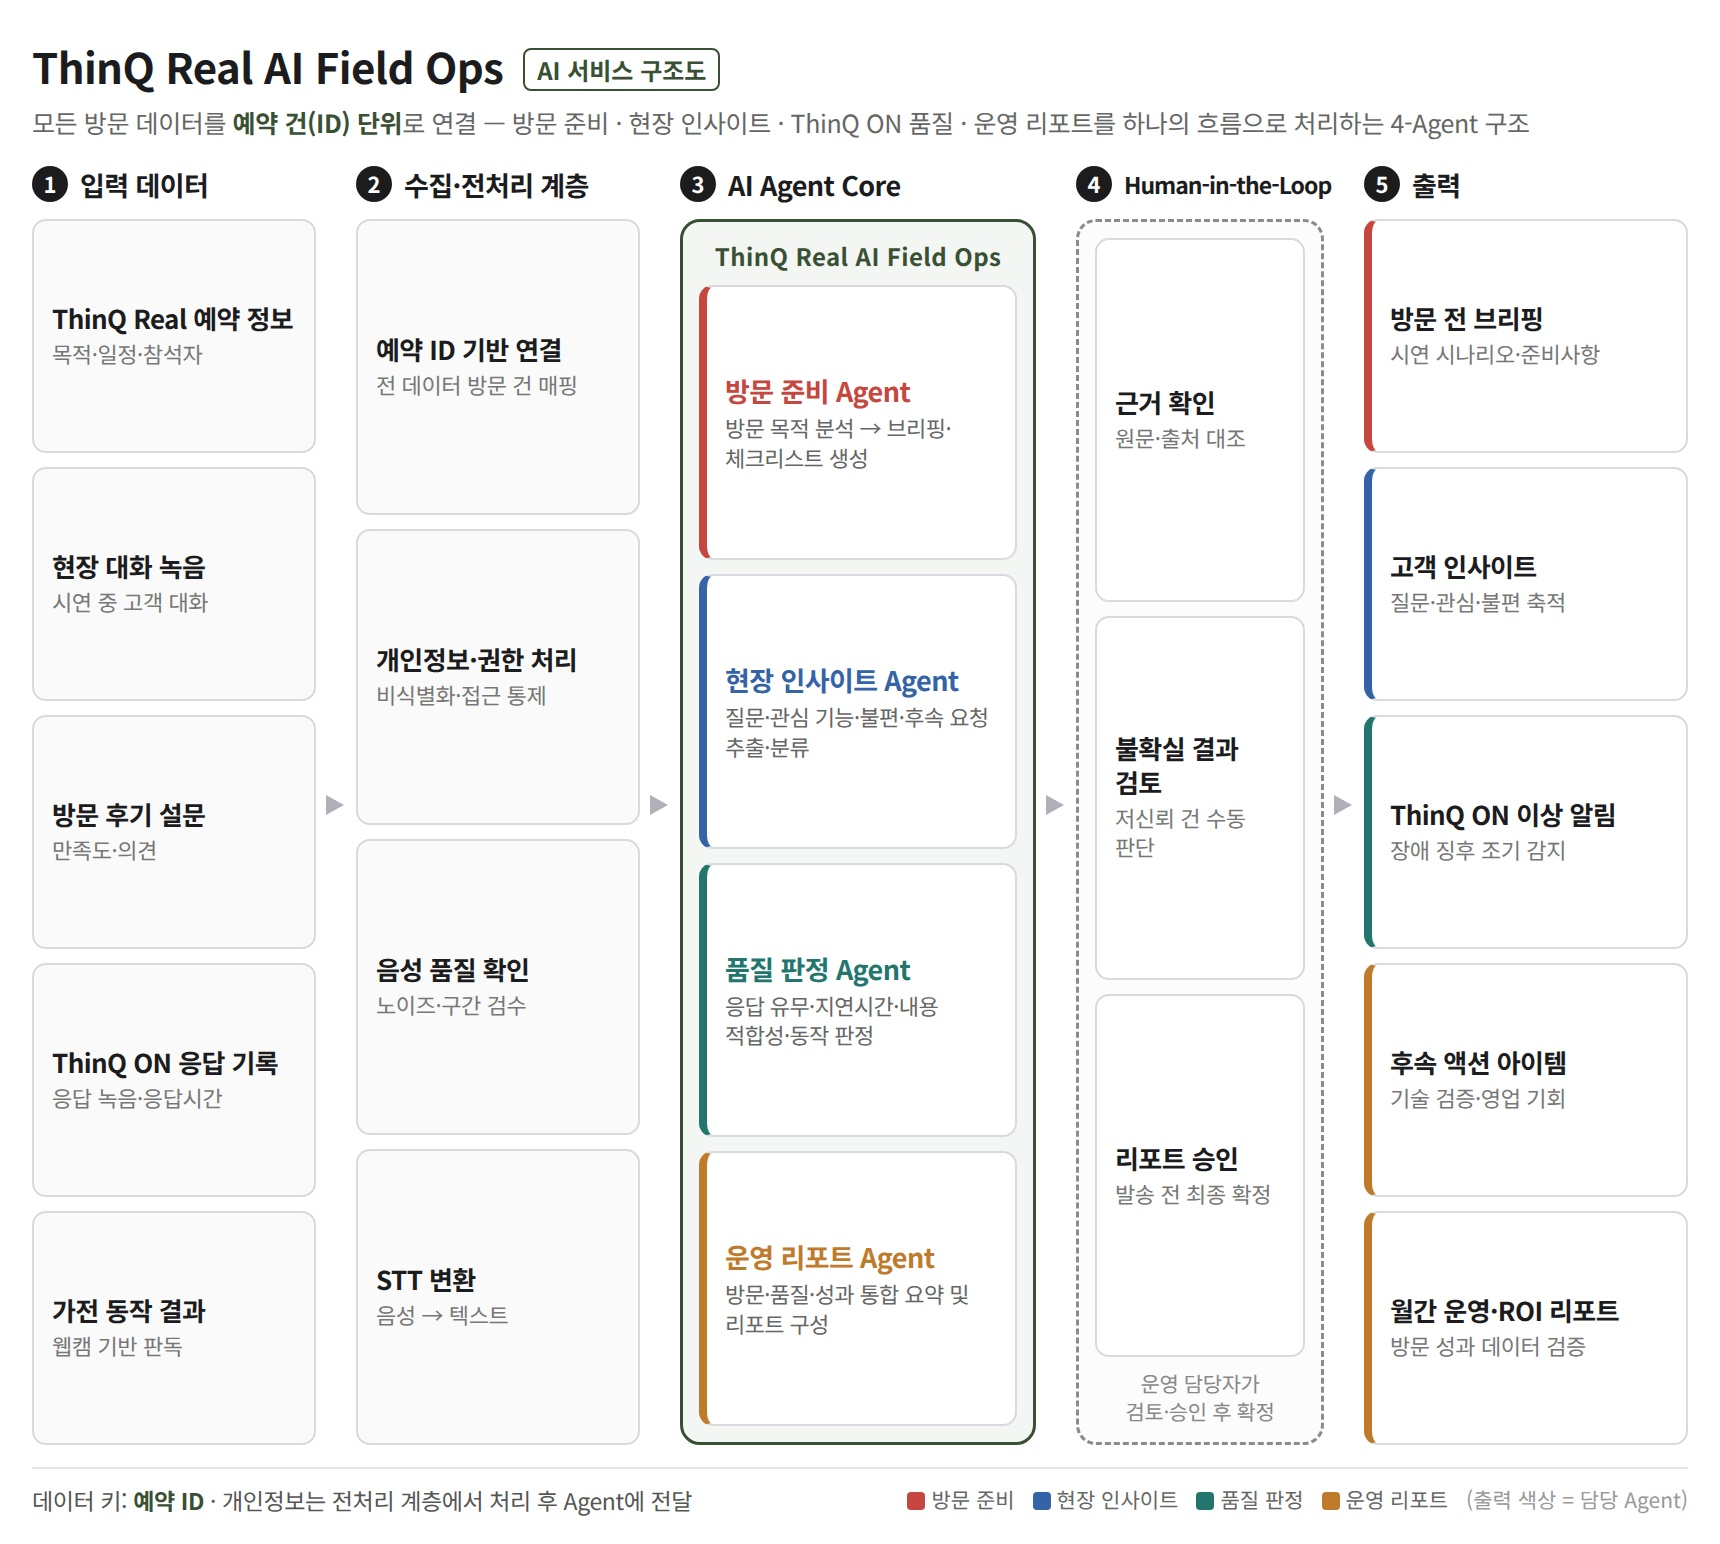
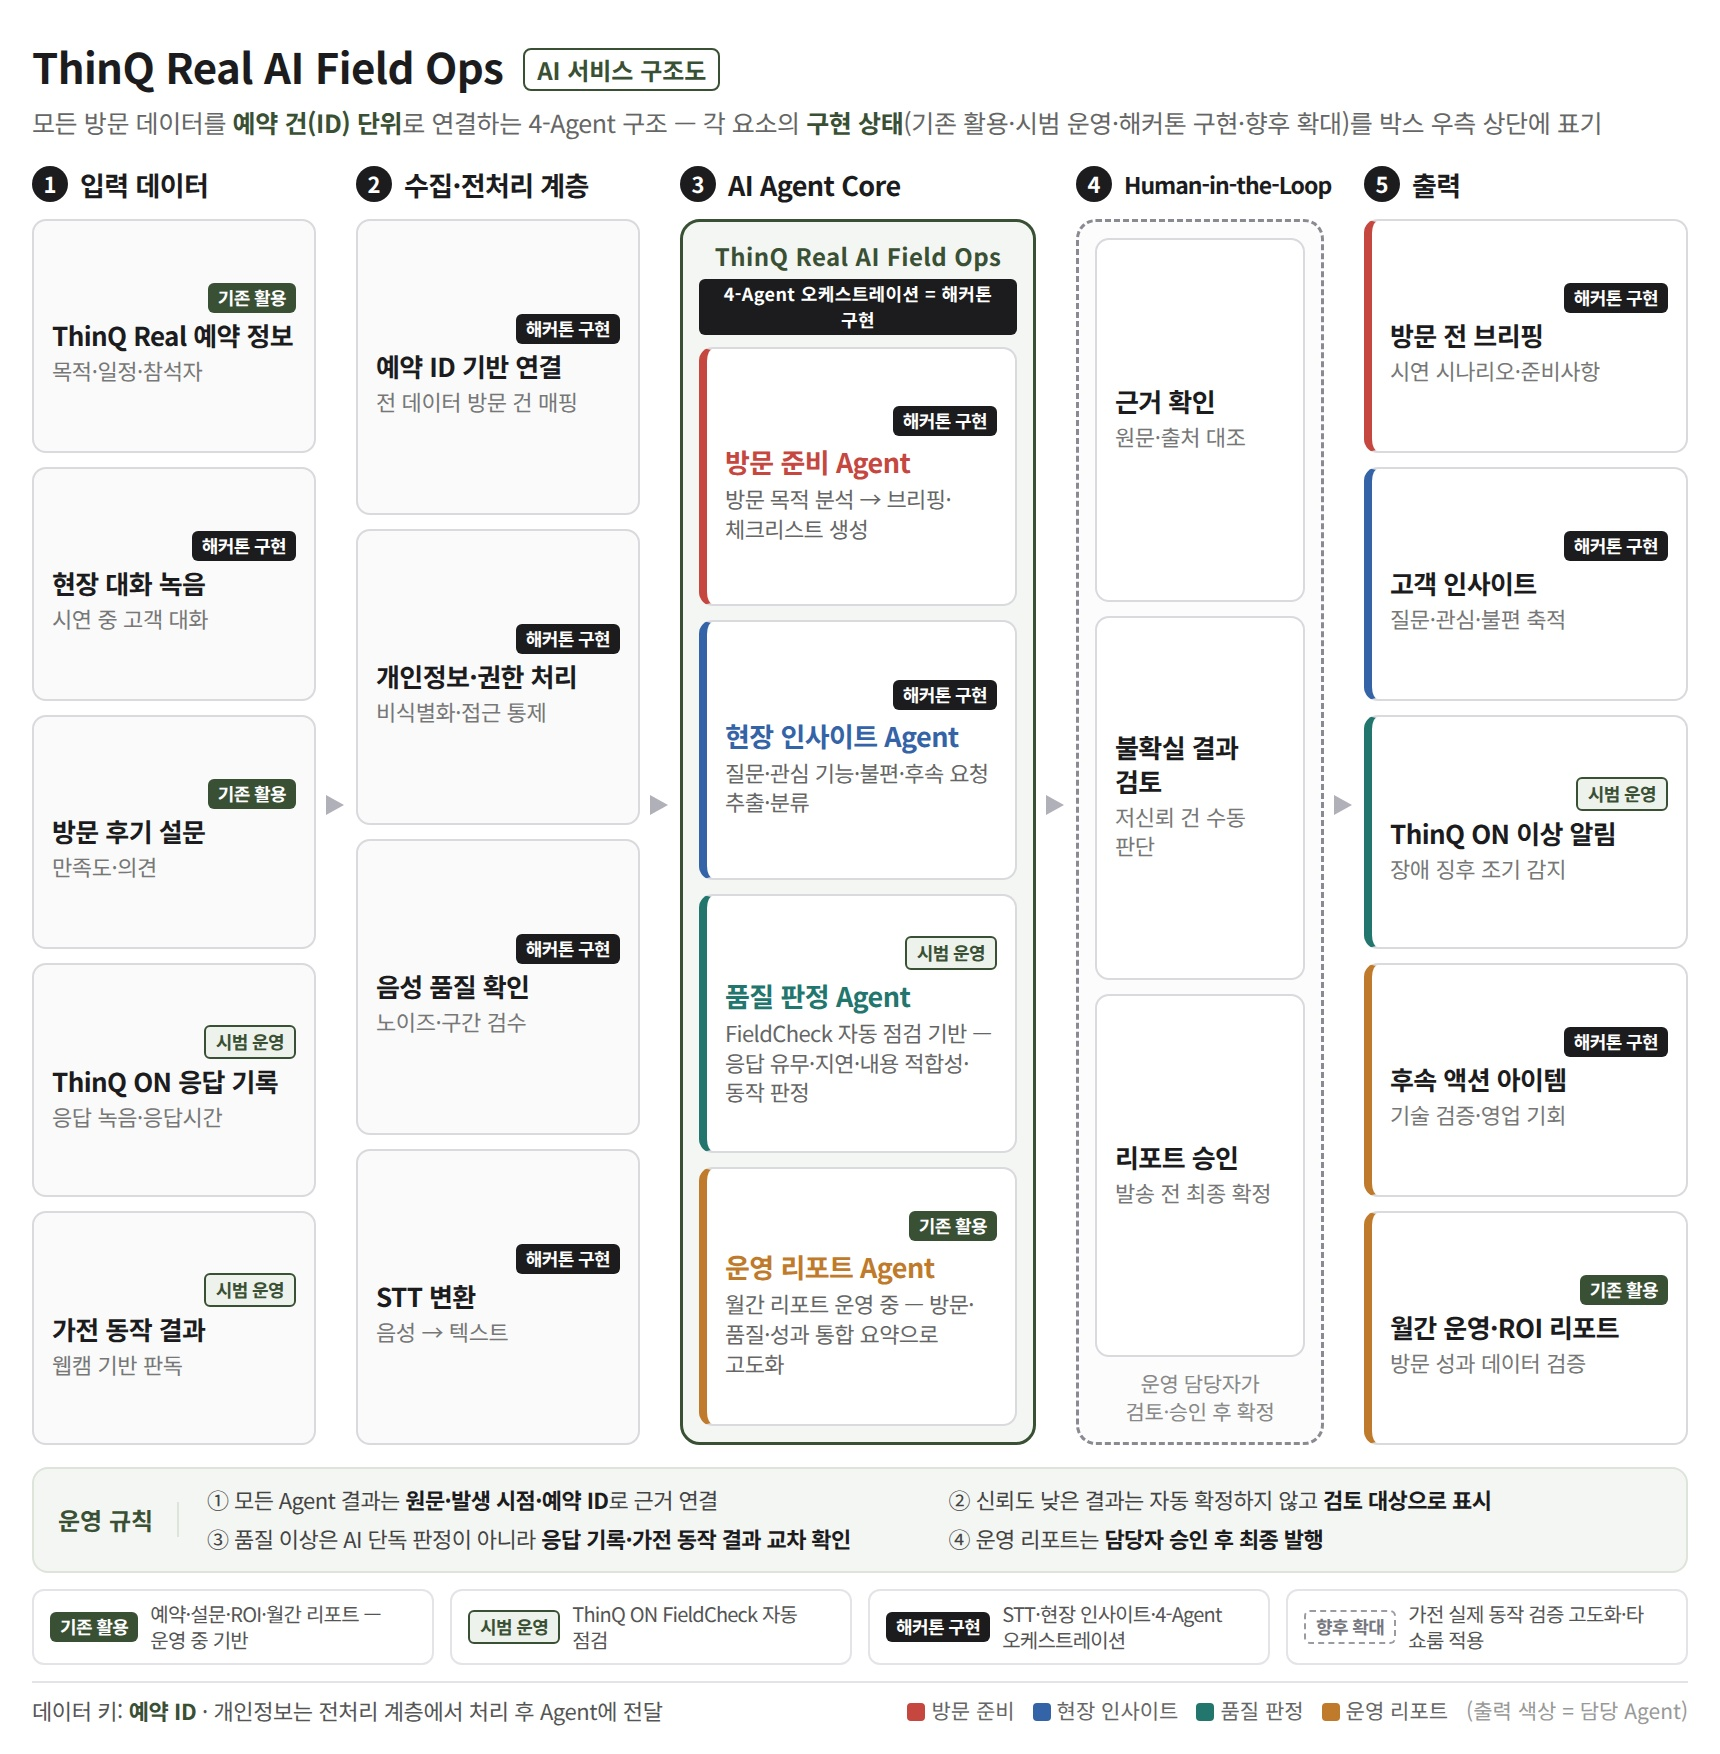
docs(hackathon): 구조도 최종 확정본 — 심사 피드백 반영 (구현 상태 배지·범례·운영 규칙)
- 박스별 구현 상태 4종 배지(기존 활용/시범 운영/해커톤 구현/향후 확대) + 하단 상태 범례
- 운영 규칙 밴드 4항(근거 연결·저신뢰 검토·교차 확인·승인 후 발행) 추가
- HANDOFF.md에 피드백 반영 내역·최종 이미지 크기 갱신

Claude-Session: https://claude.ai/code/session_01S9MiNsDJ5EUaq977ixRawg

diff --git a/thinqreal/hackathon/diagram/structure_diagram.html b/thinqreal/hackathon/diagram/structure_diagram.html
@@ -30,16 +30,27 @@
 
   .box {
     background:#fafafa; border:1px solid #d9d9de; border-radius:7px;
-    padding:7px 9px; flex:1; display:flex; flex-direction:column; justify-content:center;
+    padding:6px 9px 7px; flex:1; display:flex; flex-direction:column; justify-content:center;
   }
   .box .t { font-size:13px; font-weight:700; letter-spacing:-0.3px; line-height:1.3; }
   .box .d { font-size:11px; color:#777; letter-spacing:-0.2px; line-height:1.35; margin-top:2px; }
+
+  /* ---------- status badges ---------- */
+  .bdg {
+    align-self:flex-end; font-size:9px; font-weight:700; letter-spacing:-0.3px;
+    border-radius:3px; padding:1px 5px; margin-bottom:3px; white-space:nowrap;
+  }
+  .b-run { background:#3a5035; color:#fff; }                       /* 기존 활용 */
+  .b-pil { background:#eef2ec; color:#3a5035; border:1px solid #3a5035; } /* 시범 운영 */
+  .b-hak { background:#1c1c1e; color:#fff; }                       /* 해커톤 구현 */
+  .b-fut { background:#fff; color:#77777f; border:1px dashed #9a9aa2; } /* 향후 확대 */
 
   /* column widths */
   .c-in   { width:142px; flex:none; }
   .c-pre  { width:142px; flex:none; }
   .c-core { flex:1; }
   .c-hitl { width:124px; flex:none; }
+  .c-hitl .col-label .tx { font-size:11.5px; letter-spacing:-0.5px; }
   .c-out  { width:162px; flex:none; }
 
   /* ---------- core ---------- */
@@ -47,10 +58,11 @@
     flex:1; border:1.5px solid #3a5035; border-radius:10px; background:#f4f6f3;
     padding:8px; display:flex; flex-direction:column; gap:7px;
   }
-  .core-title { font-size:12px; font-weight:700; color:#3a5035; text-align:center; letter-spacing:0.2px; margin-bottom:-1px; }
+  .core-title { font-size:12px; font-weight:700; color:#3a5035; text-align:center; letter-spacing:0.2px; margin-bottom:-1px; display:flex; flex-direction:column; align-items:center; gap:3px; }
+  .core-title .bdg-inline { font-size:9px; font-weight:700; background:#1c1c1e; color:#fff; border-radius:3px; padding:1px 6px; }
   .agent {
     background:#fff; border:1px solid #d9d9de; border-left-width:4px; border-radius:7px;
-    padding:6px 9px; flex:1; display:flex; flex-direction:column; justify-content:center;
+    padding:5px 9px 6px; flex:1; display:flex; flex-direction:column; justify-content:center;
   }
   .agent .t { font-size:13.5px; font-weight:700; letter-spacing:-0.3px; }
   .agent .d { font-size:11px; color:#666; letter-spacing:-0.3px; line-height:1.35; margin-top:2px; }
@@ -59,7 +71,6 @@
   .a-teal { border-left-color:#22766e; }  .a-teal .t { color:#22766e; }
   .a-org  { border-left-color:#c07a2c; }  .a-org .t  { color:#c07a2c; }
 
-  .c-hitl .col-label .tx { font-size:11.5px; letter-spacing:-0.5px; }
   /* ---------- HITL ---------- */
   .hitl-wrap {
     flex:1; border:1.5px dashed #8a8a92; border-radius:10px; background:#fcfcfd;
@@ -75,9 +86,25 @@
   .o-teal { border-left-color:#22766e; }
   .o-org  { border-left-color:#c07a2c; }
 
-  /* ---------- footer ---------- */
-  .ft { margin-top:11px; border-top:1px solid #e4e4e8; padding-top:7px; display:flex; justify-content:space-between; align-items:center; }
-  .ft .key { font-size:11.5px; color:#555; letter-spacing:-0.2px; }
+  /* ---------- rules band ---------- */
+  .rules {
+    margin-top:11px; background:#f4f6f3; border:1px solid #dde4da; border-radius:8px;
+    padding:8px 12px; display:grid; grid-template-columns:auto 1fr 1fr; column-gap:14px; row-gap:4px; align-items:center;
+  }
+  .rules .rt { grid-row:span 2; font-size:12px; font-weight:700; color:#3a5035; white-space:nowrap; border-right:1px solid #dde4da; padding-right:12px; }
+  .rules .ri { font-size:11px; color:#444; letter-spacing:-0.3px; line-height:1.4; }
+  .rules .ri b { color:#1c1c1e; }
+
+  /* ---------- legends ---------- */
+  .status-legend {
+    margin-top:8px; display:flex; gap:8px; align-items:stretch;
+  }
+  .sl-item { flex:1; display:flex; align-items:center; gap:6px; border:1px solid #e4e4e8; border-radius:6px; padding:5px 8px; }
+  .sl-item .bdg { align-self:center; margin:0; flex:none; }
+  .sl-item .sd { font-size:10px; color:#555; letter-spacing:-0.4px; line-height:1.3; }
+
+  .ft { margin-top:8px; border-top:1px solid #e4e4e8; padding-top:6px; display:flex; justify-content:space-between; align-items:center; }
+  .ft .key { font-size:11px; color:#555; letter-spacing:-0.2px; }
   .ft .key b { color:#3a5035; }
   .legend { display:flex; gap:9px; font-size:10.5px; color:#666; align-items:center; }
   .legend i { width:9px; height:9px; border-radius:2px; display:inline-block; margin-right:3px; position:relative; top:1px; }
@@ -89,7 +116,7 @@
   <h1>ThinQ Real AI Field Ops</h1>
   <span class="tag">AI 서비스 구조도</span>
 </div>
-<div class="sub">모든 방문 데이터를 <b>예약 건(ID) 단위</b>로 연결 — 방문 준비 · 현장 인사이트 · ThinQ ON 품질 · 운영 리포트를 하나의 흐름으로 처리하는 4-Agent 구조</div>
+<div class="sub">모든 방문 데이터를 <b>예약 건(ID) 단위</b>로 연결하는 4-Agent 구조 — 각 요소의 <b>구현 상태</b>(기존 활용·시범 운영·해커톤 구현·향후 확대)를 박스 우측 상단에 표기</div>
 
 <div class="flow">
 
@@ -97,11 +124,11 @@
   <div class="col c-in">
     <div class="col-label"><span class="no">1</span><span class="tx">입력 데이터</span></div>
     <div class="stack">
-      <div class="box"><div class="t">ThinQ Real 예약 정보</div><div class="d">목적·일정·참석자</div></div>
-      <div class="box"><div class="t">현장 대화 녹음</div><div class="d">시연 중 고객 대화</div></div>
-      <div class="box"><div class="t">방문 후기 설문</div><div class="d">만족도·의견</div></div>
-      <div class="box"><div class="t">ThinQ ON 응답 기록</div><div class="d">응답 녹음·응답시간</div></div>
-      <div class="box"><div class="t">가전 동작 결과</div><div class="d">웹캠 기반 판독</div></div>
+      <div class="box"><span class="bdg b-run">기존 활용</span><div class="t">ThinQ Real 예약 정보</div><div class="d">목적·일정·참석자</div></div>
+      <div class="box"><span class="bdg b-hak">해커톤 구현</span><div class="t">현장 대화 녹음</div><div class="d">시연 중 고객 대화</div></div>
+      <div class="box"><span class="bdg b-run">기존 활용</span><div class="t">방문 후기 설문</div><div class="d">만족도·의견</div></div>
+      <div class="box"><span class="bdg b-pil">시범 운영</span><div class="t">ThinQ ON 응답 기록</div><div class="d">응답 녹음·응답시간</div></div>
+      <div class="box"><span class="bdg b-pil">시범 운영</span><div class="t">가전 동작 결과</div><div class="d">웹캠 기반 판독</div></div>
     </div>
   </div>
 
@@ -111,10 +138,10 @@
   <div class="col c-pre">
     <div class="col-label"><span class="no">2</span><span class="tx">수집·전처리 계층</span></div>
     <div class="stack">
-      <div class="box"><div class="t">예약 ID 기반 연결</div><div class="d">전 데이터 방문 건 매핑</div></div>
-      <div class="box"><div class="t">개인정보·권한 처리</div><div class="d">비식별화·접근 통제</div></div>
-      <div class="box"><div class="t">음성 품질 확인</div><div class="d">노이즈·구간 검수</div></div>
-      <div class="box"><div class="t">STT 변환</div><div class="d">음성 → 텍스트</div></div>
+      <div class="box"><span class="bdg b-hak">해커톤 구현</span><div class="t">예약 ID 기반 연결</div><div class="d">전 데이터 방문 건 매핑</div></div>
+      <div class="box"><span class="bdg b-hak">해커톤 구현</span><div class="t">개인정보·권한 처리</div><div class="d">비식별화·접근 통제</div></div>
+      <div class="box"><span class="bdg b-hak">해커톤 구현</span><div class="t">음성 품질 확인</div><div class="d">노이즈·구간 검수</div></div>
+      <div class="box"><span class="bdg b-hak">해커톤 구현</span><div class="t">STT 변환</div><div class="d">음성 → 텍스트</div></div>
     </div>
   </div>
 
@@ -124,11 +151,11 @@
   <div class="col c-core">
     <div class="col-label"><span class="no">3</span><span class="tx">AI Agent Core</span></div>
     <div class="core-wrap">
-      <div class="core-title">ThinQ Real AI Field Ops</div>
-      <div class="agent a-red"><div class="t">방문 준비 Agent</div><div class="d">방문 목적 분석 → 브리핑·체크리스트 생성</div></div>
-      <div class="agent a-blue"><div class="t">현장 인사이트 Agent</div><div class="d">질문·관심 기능·불편·후속 요청 추출·분류</div></div>
-      <div class="agent a-teal"><div class="t">품질 판정 Agent</div><div class="d">응답 유무·지연시간·내용 적합성·동작 판정</div></div>
-      <div class="agent a-org"><div class="t">운영 리포트 Agent</div><div class="d">방문·품질·성과 통합 요약 및 리포트 구성</div></div>
+      <div class="core-title"><span>ThinQ Real AI Field Ops</span><span class="bdg-inline">4-Agent 오케스트레이션 = 해커톤 구현</span></div>
+      <div class="agent a-red"><span class="bdg b-hak">해커톤 구현</span><div class="t">방문 준비 Agent</div><div class="d">방문 목적 분석 → 브리핑·체크리스트 생성</div></div>
+      <div class="agent a-blue"><span class="bdg b-hak">해커톤 구현</span><div class="t">현장 인사이트 Agent</div><div class="d">질문·관심 기능·불편·후속 요청 추출·분류</div></div>
+      <div class="agent a-teal"><span class="bdg b-pil">시범 운영</span><div class="t">품질 판정 Agent</div><div class="d">FieldCheck 자동 점검 기반 — 응답 유무·지연·내용 적합성·동작 판정</div></div>
+      <div class="agent a-org"><span class="bdg b-run">기존 활용</span><div class="t">운영 리포트 Agent</div><div class="d">월간 리포트 운영 중 — 방문·품질·성과 통합 요약으로 고도화</div></div>
     </div>
   </div>
 
@@ -151,14 +178,29 @@
   <div class="col c-out">
     <div class="col-label"><span class="no">5</span><span class="tx">출력</span></div>
     <div class="stack">
-      <div class="box out o-red"><div class="t">방문 전 브리핑</div><div class="d">시연 시나리오·준비사항</div></div>
-      <div class="box out o-blue"><div class="t">고객 인사이트</div><div class="d">질문·관심·불편 축적</div></div>
-      <div class="box out o-teal"><div class="t">ThinQ ON 이상 알림</div><div class="d">장애 징후 조기 감지</div></div>
-      <div class="box out o-org"><div class="t">후속 액션 아이템</div><div class="d">기술 검증·영업 기회</div></div>
-      <div class="box out o-org"><div class="t">월간 운영·ROI 리포트</div><div class="d">방문 성과 데이터 검증</div></div>
+      <div class="box out o-red"><span class="bdg b-hak">해커톤 구현</span><div class="t">방문 전 브리핑</div><div class="d">시연 시나리오·준비사항</div></div>
+      <div class="box out o-blue"><span class="bdg b-hak">해커톤 구현</span><div class="t">고객 인사이트</div><div class="d">질문·관심·불편 축적</div></div>
+      <div class="box out o-teal"><span class="bdg b-pil">시범 운영</span><div class="t">ThinQ ON 이상 알림</div><div class="d">장애 징후 조기 감지</div></div>
+      <div class="box out o-org"><span class="bdg b-hak">해커톤 구현</span><div class="t">후속 액션 아이템</div><div class="d">기술 검증·영업 기회</div></div>
+      <div class="box out o-org"><span class="bdg b-run">기존 활용</span><div class="t">월간 운영·ROI 리포트</div><div class="d">방문 성과 데이터 검증</div></div>
     </div>
   </div>
 
+</div>
+
+<div class="rules">
+  <div class="rt">운영 규칙</div>
+  <div class="ri">① 모든 Agent 결과는 <b>원문·발생 시점·예약 ID</b>로 근거 연결</div>
+  <div class="ri">② 신뢰도 낮은 결과는 자동 확정하지 않고 <b>검토 대상으로 표시</b></div>
+  <div class="ri">③ 품질 이상은 AI 단독 판정이 아니라 <b>응답 기록·가전 동작 결과 교차 확인</b></div>
+  <div class="ri">④ 운영 리포트는 <b>담당자 승인 후 최종 발행</b></div>
+</div>
+
+<div class="status-legend">
+  <div class="sl-item"><span class="bdg b-run">기존 활용</span><span class="sd">예약·설문·ROI·월간 리포트 — 운영 중 기반</span></div>
+  <div class="sl-item"><span class="bdg b-pil">시범 운영</span><span class="sd">ThinQ ON FieldCheck 자동 점검</span></div>
+  <div class="sl-item"><span class="bdg b-hak">해커톤 구현</span><span class="sd">STT·현장 인사이트·4-Agent 오케스트레이션</span></div>
+  <div class="sl-item"><span class="bdg b-fut">향후 확대</span><span class="sd">가전 실제 동작 검증 고도화·타 쇼룸 적용</span></div>
 </div>
 
 <div class="ft">

diff --git a/thinqreal/hackathon/HANDOFF.md b/thinqreal/hackathon/HANDOFF.md
@@ -53,8 +53,8 @@
 ### 파일 (이 폴더 `diagram/`)
 | 파일 | 용도 |
 |---|---|
-| `structure_diagram_860px.jpg` (860×772) | 웹폼 규격 제출용 |
-| `structure_diagram_1720px.jpg` (1720×1544) | 2배 해상도 원본 — 폼이 자동 축소를 지원하면 이쪽 업로드 권장, 발표 자료 재사용용 |
+| `structure_diagram_860px.jpg` (860×877) | 웹폼 규격 제출용 |
+| `structure_diagram_1720px.jpg` (1720×1754) | 2배 해상도 원본 — 폼이 자동 축소를 지원하면 이쪽 업로드 권장, 발표 자료 재사용용 |
 | `structure_diagram.html` | 원본 소스 — 문구·색·배치 수정 후 재렌더링 가능 |
 
 ### 디자인 결정 사항
@@ -64,7 +64,16 @@
 - 테두리·강조는 ThinQ Real 브랜드 컬러 다크 올리브 `#3a5035`.
 - Human-in-the-Loop는 점선 박스 — AI 산출물이 담당자 검토·승인을 거친다는 안전장치 표현.
 - "예약 건(ID) 단위 연결"을 부제 + 하단 데이터 키 문구로 강조 (Pain Point 3에 대한 답).
-- 1차본이 글자가 작아 가독성 지적받음 → 폰트 전면 확대(박스 제목 13px 등)한 현재본이 최종.
+- 1차본이 글자가 작아 가독성 지적받음 → 폰트 전면 확대(박스 제목 13px 등).
+- **심사기준 기반 피드백 반영 (2026-08-27, 최종 확정본)** — "구조도는 강점이나 모두 구현된 것처럼 보임 → 구현 상태 구분 필요":
+  - 모든 박스 우측 상단에 **구현 상태 배지 4종**: 기존 활용(올리브 채움 — 예약·설문·월간 리포트·ROI) /
+    시범 운영(올리브 테두리 — ThinQ ON 응답 기록·웹캠 가전 동작·품질 판정 Agent·이상 알림, FieldCheck 기반) /
+    해커톤 구현(검정 채움 — 현장 대화 녹음·전처리 4종·방문 준비 Agent·현장 인사이트 Agent·브리핑·인사이트·액션 아이템) /
+    향후 확대(점선 — 범례에만: 가전 실제 동작 검증 고도화·타 쇼룸 적용).
+  - Core 상단에 "4-Agent 오케스트레이션 = 해커톤 구현" 배지 — 핵심 신규 구현 명시.
+  - 흐름도 아래 **운영 규칙 밴드 4항**: ① Agent 결과는 원문·발생 시점·예약 ID로 근거 연결 ② 저신뢰 결과는 자동 확정 없이 검토 표시
+    ③ 품질 이상은 응답 기록·가전 동작 결과 교차 확인 ④ 리포트는 담당자 승인 후 발행.
+  - 그 아래 **구현 상태 범례** 4칸 + 기존 Agent 색 범례·데이터 키 유지.
 
 ### 재렌더링 방법 (클라우드 세션 기준)
 ```bash
